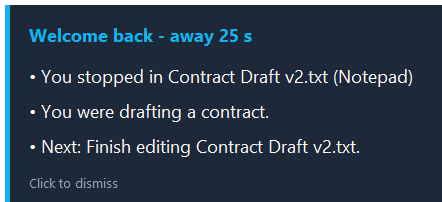
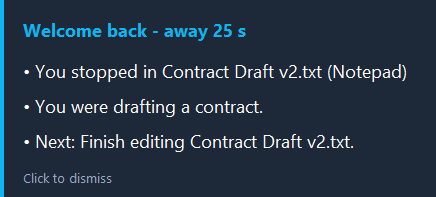
Update README to match the plan

Changed region(s): [[0.0, 0.0, 1.0, 1.0], [0.0596, 0.3046, 0.9541, 0.4264], [0.0596, 0.4873, 0.6261, 0.6091]]

diff --git a/README.md b/README.md
@@ -6,13 +6,13 @@ RecallPlug is a small Windows tool that answers one question the moment you sit 
 
 ![The recap window, shown after the user returns](docs/hud.png)
 
-Entry for the **ASUS UGen AI League**: Battlefield Lightning · Workplace AI · Onsite track. Target hardware: **ASUS UGen300 USB AI Accelerator** (Hailo-10H). It runs on a laptop with Ollama today; the UGen300 backend is planned for Stage II.
+Entry for the **ASUS UGen AI League**: Battlefield Lightning · Workplace AI · Onsite track. Target hardware: **ASUS UGen300 USB AI Accelerator** (Hailo-10H). The prototype runs on a laptop with Ollama today; the UGen300 backend is planned for Stage II.
 
 ## Why
 
 Interruptions are normal in office work, and getting back to the task takes time. In a field study of 36 workers, resuming an interrupted task took about 25 minutes on average, including time spent on other work [1].
 
-Memory tools for the desktop exist, but they make a different trade-off. Windows Recall needs a Copilot+ PC (an NPU of 40+ TOPS, 16 GB RAM, 256 GB storage) and takes screen snapshots [2]. RecallPlug gives up screen content to gain privacy and a low hardware bar: it records **window titles only**, keeps them **in memory**, and runs a **local model** on an ordinary Windows PC.
+Memory tools for the desktop exist, but they make a different trade-off. Windows Recall needs a Copilot+ PC (an NPU of 40+ TOPS, 16 GB RAM, 256 GB storage) and takes screen snapshots every few seconds [2]. RecallPlug starts from the other end: the **current prototype uses window titles only**, keeps them **in memory**, and runs a **local model** on an ordinary Windows PC. A content layer that reads the screen is planned, with a single snapshot when you leave and strict privacy conditions (see below).
 
 ## How it works
 
@@ -21,7 +21,7 @@ Memory tools for the desktop exist, but they make a different trade-off. Windows
 3. **Recap.** A local model prepares three lines in the background.
 4. **Return.** The recap appears at the bottom right, already written.
 
-Example output (real):
+Real output of the current prototype (title layer):
 
 ```text
 • You stopped in Contract Draft v2.txt (Notepad)
@@ -31,18 +31,32 @@ Example output (real):
 
 **Facts by rules, reasoning by model.** Line 1 (where you stopped) is rule-based, so it is always correct. Lines 2 and 3 (what you were doing, a next step) come from the model and are checked: they must be grounded in your recent windows, they must not suggest irreversible actions (delete, uninstall, send, pay, purchase, submit), and a line that fails a check is replaced by a rule-based sentence. A small model is good at themes and weak at counting windows, so each job sits where it works.
 
-## Privacy
+## Content layer (planned, Stage II)
+
+Window titles cannot tell you which quote you were reading. The content layer adds a short text description of the foreground window, with three triggers that share one pipeline:
+
+| Trigger | Condition | Level |
+|---|---|---|
+| Away snapshot | Idle for 5 minutes: capture once, describe while you are away | Commitment |
+| Reading pause snapshot | Input idle for 10 s with the same title, at most 2 descriptions a minute on average; on by default, built in the finals phase | Target |
+| Thumbnail watch | Every 5 s, compare a tiny grayscale image on the CPU | Later |
+
+The pipeline: a block-listed title means no capture at all; only the foreground window is captured, in memory; a vision model describes type, topic and structure (no numbers or names); personal data is masked, the image is discarded and only text is kept. Descriptions are shown with the label “AI description, may be wrong”.
+
+**Ship condition:** the content layer is on by default only when six protections exist: pause key, capture indicator, editable block list, summary passed over standard input (not the command line), no display while the screen is locked, and automated network and no-image-on-disk tests. If any is missing, the layer starts switched off. None of this is built yet.
+
+## Privacy (today)
 
 - Only window titles are used. No screenshots, no screen text.
 - Titles stay in memory. They are never written to disk, and neither are the model's answers.
 - Windows whose titles suggest banking, passwords or private browsing are skipped. Email addresses, phone numbers, card numbers and ID numbers are masked before text reaches the model.
-- Inference runs locally. No cloud service is part of the pipeline, by design. A network audit test is planned and has not been done yet.
-- Limit: titles can still contain sensitive words. An editable block list and retention settings are planned.
+- Inference runs locally. No cloud service is part of the pipeline, by design. A network audit has not been completed yet.
+- Limits: titles can still contain sensitive words. The summary is currently handed to the recap window as a command-line argument, which other programs of the same user can read for the 15 seconds the window exists; passing it over standard input is planned.
 
 ## Architecture
 
 <!-- Add your own architecture diagram as docs/architecture.png, then remove this comment markup:
-![Architecture: watcher, privacy filter, recap engine, inference backend, HUD](docs/architecture.png)
+![Architecture: watcher, privacy gate, memory, recap engine, inference backend, HUD](docs/architecture.png)
 -->
 
 All inference sits behind one interface. `OllamaBackend` is built; a mock backend is used in tests; the UGen300 (Hailo) backend is a stub that reports “not supported yet” and falls back to Ollama. Porting to the device should not change the rest of the program.
@@ -51,9 +65,10 @@ All inference sits behind one interface. `OllamaBackend` is built; a mock backen
 
 | Function | Model | Platform | Status |
 |---|---|---|---|
-| Away recap | qwen2.5:1.5b via Ollama | Windows 11 laptop | Built |
-| Away recap | Qwen2.5-1.5B-Instruct | ASUS UGen300 (Hailo-10H) | Planned (Stage II) |
-| Screen-content indexing | Qwen2-VL-2B-Instruct | ASUS UGen300 (Hailo-10H) | Planned (Stage II) |
+| Away recap (text) | qwen2.5:1.5b via Ollama | Windows 11 laptop | Built |
+| Away recap (text) | Qwen2.5-1.5B-Instruct | ASUS UGen300 (Hailo-10H) | Planned (commitment) |
+| Screen description (vision) | Qwen2.5-VL 3B via Ollama, stand-in model | Windows 11 laptop | Planned (commitment) |
+| Screen description (vision) | Qwen2-VL-2B-Instruct | ASUS UGen300 (Hailo-10H) | Planned |
 
 UGen300 datasheet: 40 TOPS (INT4) / 20 TOPS (INT8), 8 GB LPDDR4, 2.5 W typical, USB 3.1 Gen2 Type-C [3].
 
@@ -68,23 +83,23 @@ UGen300 datasheet: 40 TOPS (INT4) / 20 TOPS (INT8), 8 GB LPDDR4, 2.5 W typical, 
 | Host CPU, system-wide, median | 11.2% | 9.4% |
 | Host RAM, system-wide | 19.5% | 19.5% |
 
-**PROJECTED for UGen300** from the datasheet benchmark of Qwen2.5-1.5B-Instruct (first token 0.37 s, 6.82 tokens/s [3]): about 4.0 s for a 25-token recap and about 3.5 s for 21.5 tokens. This is an estimate, not a measurement. The goal is not to beat a laptop GPU but to move inference off the host; the recap is prepared during the away time, so a few seconds are invisible.
+**PROJECTED for UGen300** from the datasheet benchmarks [3]: about 4.0 s for a 25-token text recap (0.37 s first token, 6.82 tokens/s) and about 8.4 s for a 50-token vision description (0.93 s first token, 6.73 tokens/s; the 50 tokens is an assumption). These are estimates, not measurements.
 
-Notes: CPU and RAM are whole-computer averages during the call. At a low temperature the outputs are near-identical across runs, so the check pass rate shows format compliance, not quality. Quality is assessed separately (planned). Raw results are in `bench/results/`.
+Notes: CPU and RAM are whole-computer averages during the call. The laptop has a discrete GPU, so these numbers do not show the value of an accelerator; a CPU-only comparison is planned. At a low temperature the outputs are near-identical across runs, so the check pass rate shows format compliance, not quality. Raw results are in `bench/results/`.
 
 ## Status
 
 - [x] Window-title logging (memory only) and idle detection
 - [x] Away-to-return flow and recap window
-- [x] Local recap with a model, rule-based line 1, and checked lines 2 and 3
-- [x] Privacy masking and block list
+- [x] Local recap: rule-based line 1, checked lines 2 and 3
+- [x] Privacy masking and block list for titles
 - [x] Inference backend interface (Ollama, mock)
 - [x] Benchmark script with two scenarios, and 112 automated tests
-- [ ] UGen300 backend on real hardware (Stage II)
-- [ ] On-device benchmark: PROJECTED becomes MEASURED (Stage II)
-- [ ] Network audit test, editable block list, retention settings
-- [ ] Vision-based indexing and key-moment pinning (Stage II)
-- [ ] User study: single-user pilot and blind rating of model vs rules only
+- [ ] Content layer: away snapshot with a vision model (Stage II, commitment)
+- [ ] Pause key, capture indicator, one-click clear, editable block list (commitment)
+- [ ] UGen300 backend and on-device benchmark: PROJECTED becomes MEASURED (commitment)
+- [ ] Reading pause snapshot (on by default), 30-minute digest, manual pins, export and import (Stage II, target)
+- [ ] Network audit and no-image-on-disk tests, standard-input hand-off, no display when locked (ship conditions)
 
 ## Quick start
 
@@ -112,22 +127,22 @@ Benchmark results are saved to `bench/results/<timestamp>/` (`results.csv`, `sum
 ## Limitations
 
 - A 1.5B model gives modest next-step suggestions. When recent windows are web pages, it tends to continue the main document rather than the last page.
-- Only window titles are used, so vague titles give vague recaps.
+- The current prototype uses window titles only, so vague titles give vague recaps.
 - Tested on one laptop, mostly with fake English windows. Other screens, scaling and multi-monitor setups are untested.
 - The UGen300 backend is not implemented yet, and Windows support for the device's generative runtime is not confirmed.
 
 ## Roadmap
 
 - **Stage I (by 2026-10-28):** prototype, tests, benchmark, public repository.
-- **2026-11-06 to 12-04 (Stage II, planned):** confirm the runtime path, implement the UGen300 backend, re-run the benchmark on the device, add vision-based indexing and pinning, soak test.
+- **2026-11-06 to 12-04 (Stage II, planned):** confirm the runtime path, UGen300 backend and on-device benchmark, content layer (away snapshot) with its six protections, then reading pause snapshot, digest, pins and export.
 - **2026-12-10 / 12-19:** final deck, then the final at ASUS HQ.
 
 ## References
 
 1. Mark, Gonzalez, Harris. “No Task Left Behind? Examining the Nature of Fragmented Work.” CHI 2005.
-2. Microsoft. Copilot+ PCs and Recall requirements.
+2. Microsoft. Copilot+ PCs and Recall requirements. https://microsoft.com/en-ie/windows/copilot-plus-pcs
 3. ASUS. UGen300 USB AI Accelerator datasheet (UGen300-USB-8G); benchmark figures from Hailo, retrieved 02/11/26.
 
 ## About
 
-Built by [geoffrey] (GitHub: geoffreysugs) for the ASUS UGen AI League. 
+Built by geoffrey (GitHub: geoffreysugs) for the ASUS UGen AI League. License: not chosen yet.
